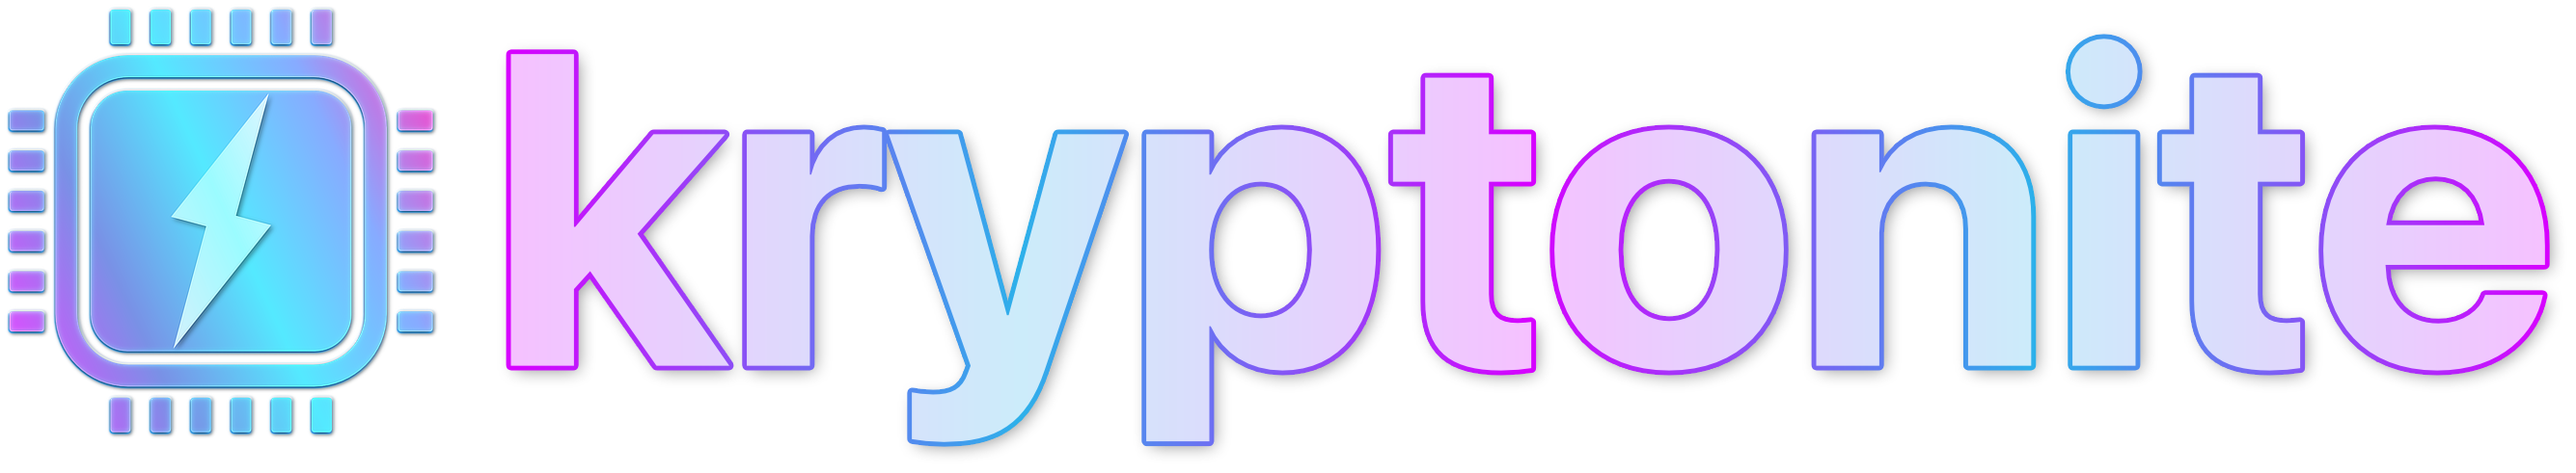
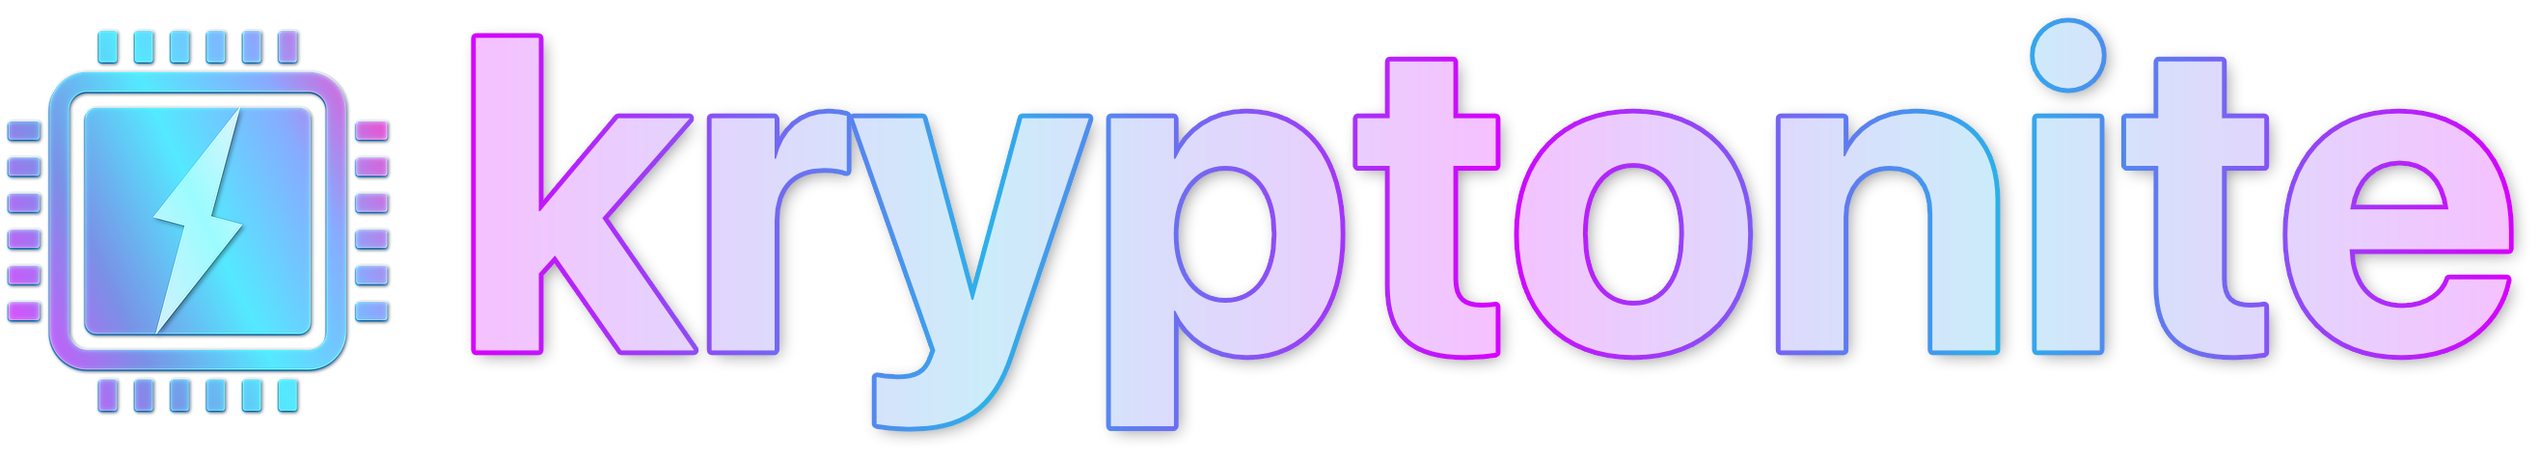
Add header

Changed region(s): [[0.0, 0.0, 0.9966, 0.9432]]

diff --git a/README.md b/README.md
@@ -1,4 +1,4 @@
-# Kryptonite
+![Header](./Resources/Header.png)
 ![Script Version](https://img.shields.io/github/release/mayankk2308/kryptonite.svg?style=for-the-badge)
 ![macOS Support](https://img.shields.io/badge/macOS-10.13.4+-orange.svg?style=for-the-badge) ![Github All Releases](https://img.shields.io/github/downloads/mayankk2308/kryptonite/total.svg?style=for-the-badge) [![paypal](https://www.paypalobjects.com/digitalassets/c/website/marketing/apac/C2/logos-buttons/optimize/34_Yellow_PayPal_Pill_Button.png)](https://www.paypal.com/cgi-bin/webscr?cmd=_donations&business=mayankk2308@icloud.com&lc=US&item_name=Development%20of%20Kryptonite&no_note=0&currency_code=USD&bn=PP-DonationsBF:btn_donate_SM.gif:NonHostedGuest)
 
